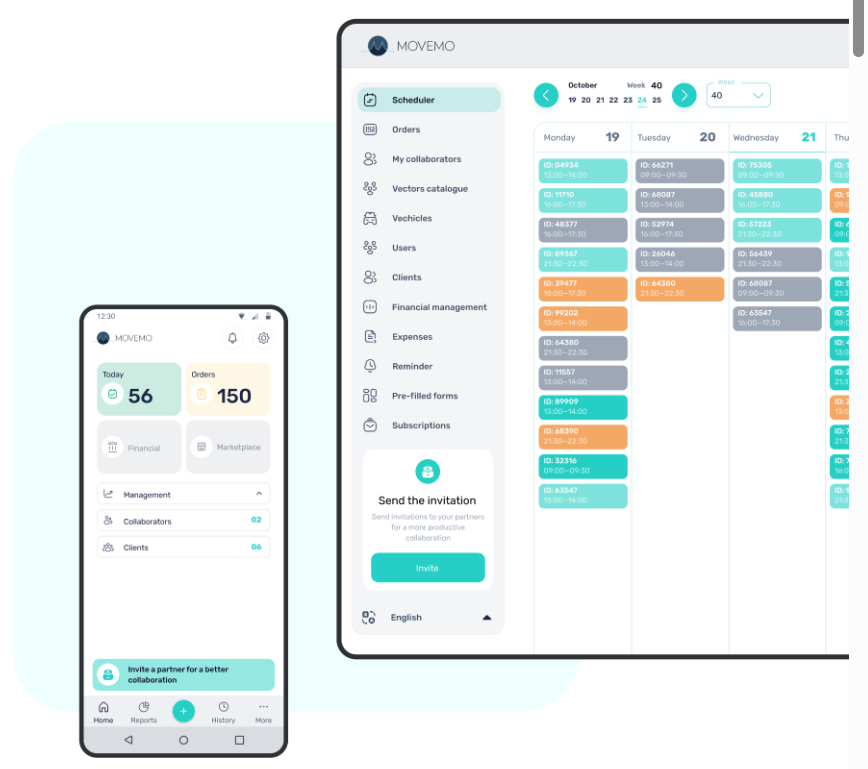
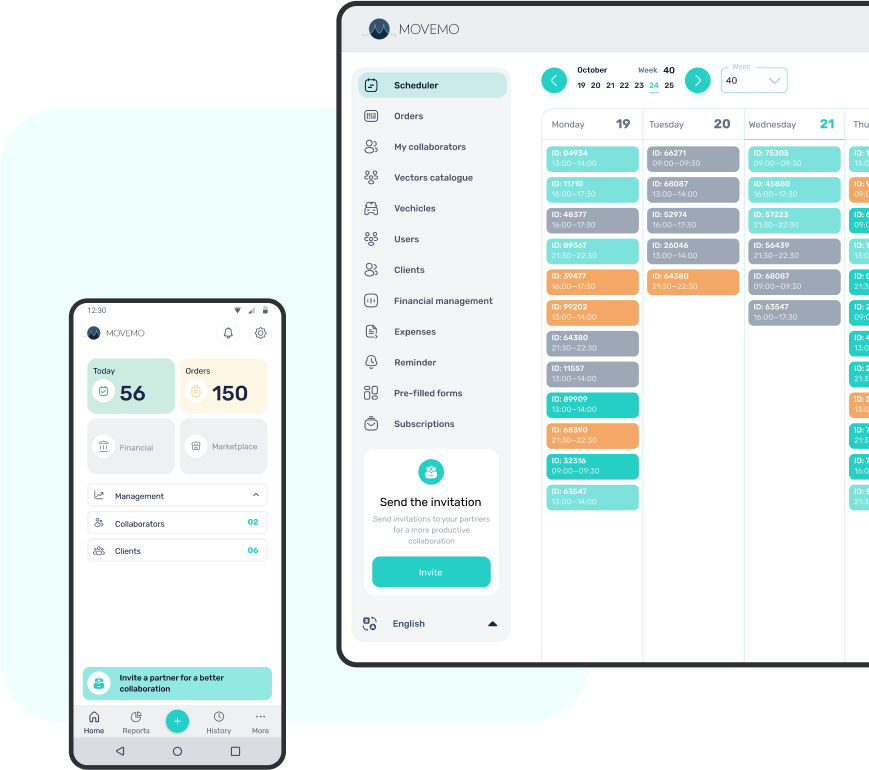
home page updated

diff --git a/src/app/[locale]/page.tsx b/src/app/[locale]/page.tsx
@@ -81,10 +81,11 @@ export default function Home() {
         variants={sectionVariants}
         viewport={{ once: true }}
       >
-        <motion.div
-          className="w-full max-w-7xl bg-white/80 backdrop-blur-md rounded-3xl shadow-xl p-10 flex flex-col md:flex-row items-center gap-10"
-          variants={sectionVariants}
-        >
+      <motion.div
+  className="w-full max-w-[1500px] bg-white/80 backdrop-blur-md rounded-3xl shadow-xl pl-10 pr-0 py-10 flex flex-col md:flex-row items-center gap-10"
+  variants={sectionVariants}
+>
+
           <div className="flex-1 text-center md:text-left space-y-6">
             <motion.h1
               className="text-4xl md:text-5xl font-bold text-cyan-700 leading-tight"
@@ -126,16 +127,16 @@ export default function Home() {
 
           <div className="flex-1 flex flex-col items-center">
             <motion.div
-              className="flex justify-end items-end w-full h-full -mr-0 md:-mr-12 lg:-mr-9"
+              className="flex justify-end items-end w-full h-full"
               initial={{ opacity: 0, scale: 0.9 }}
               whileInView={{ opacity: 1, scale: 1 }}
               transition={{ duration: 0.6, delay: 0.3 }}
               viewport={{ once: true }}
             >
               <Image
-                src="/home1.png"
+                src="/home.png"
                 alt="MVMdriver Screenshot"
-                width={600}
+                width={800}
                 height={900}
                 className="rounded-xl shadow-2xl object-contain"
               />
@@ -253,5 +254,3 @@ const AppDownloadButtons = ({ t }: { t: (key: string) => string }) => (
     </a>
   </>
 );
-
-
